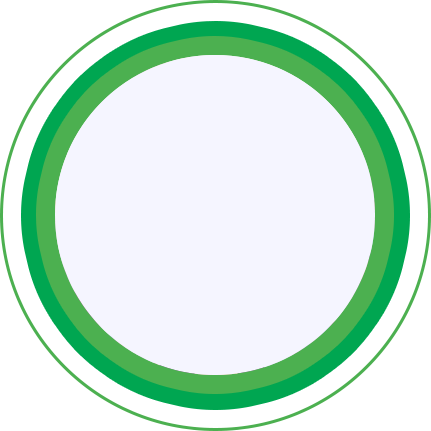
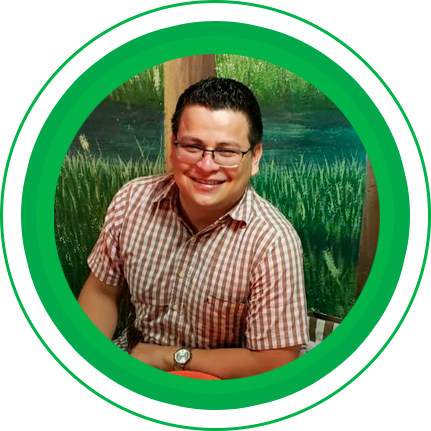
profile picture

diff --git a/index.html b/index.html
@@ -101,7 +101,7 @@
 					<div class="col-md-6">
 						<div class="profile-name-img-area text-center box-shadow border-top">
 							<div class="prfile-img ">
-								<img src="assets/images/proflie/1.png" class="img-responsive" alt="profile">
+								<img src="assets/images/proflie/juan.png" class="img-responsive" alt="profile">
 							</div>
 							<div class="profile-name text-center">
 								<h1>Juan Carlos Gómez</h1>
